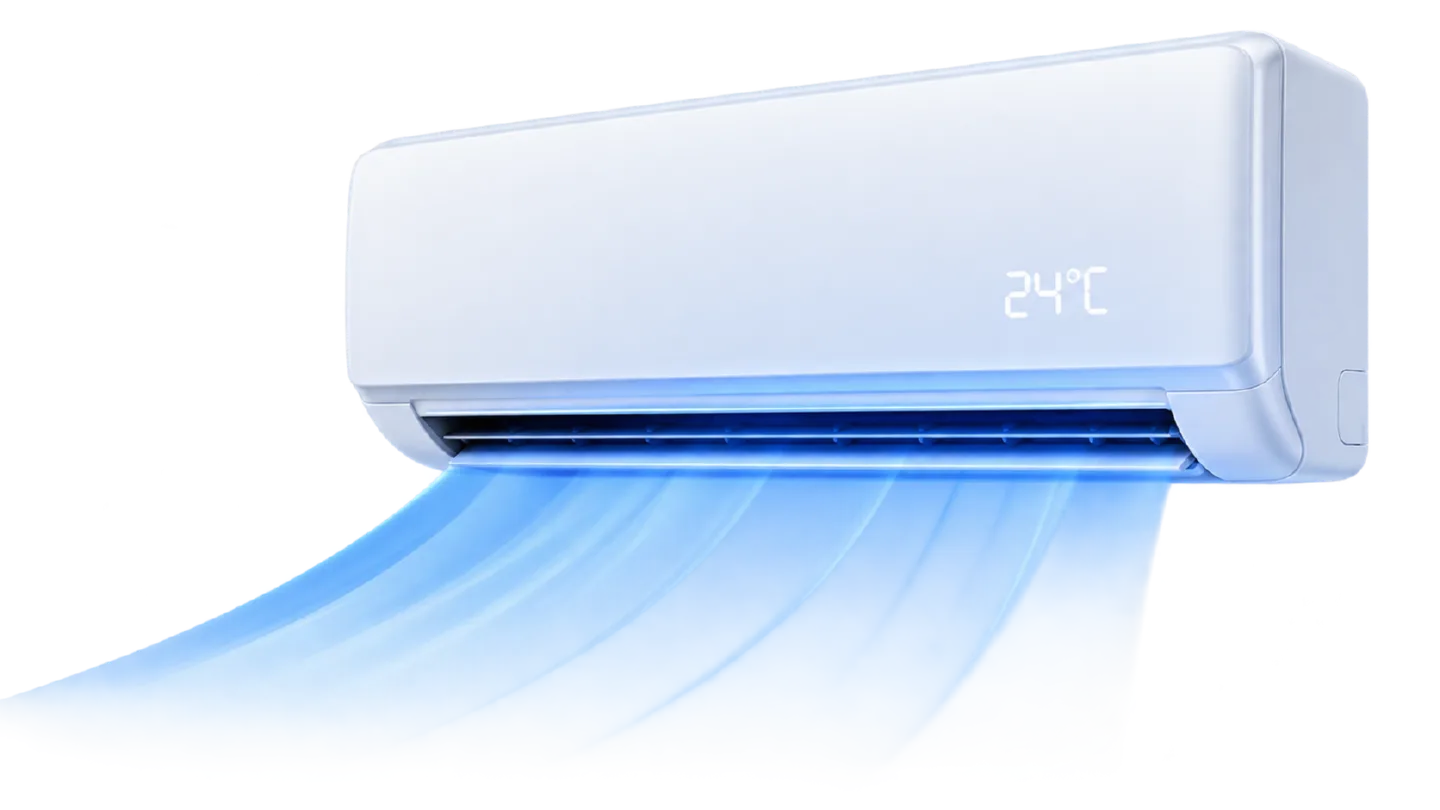
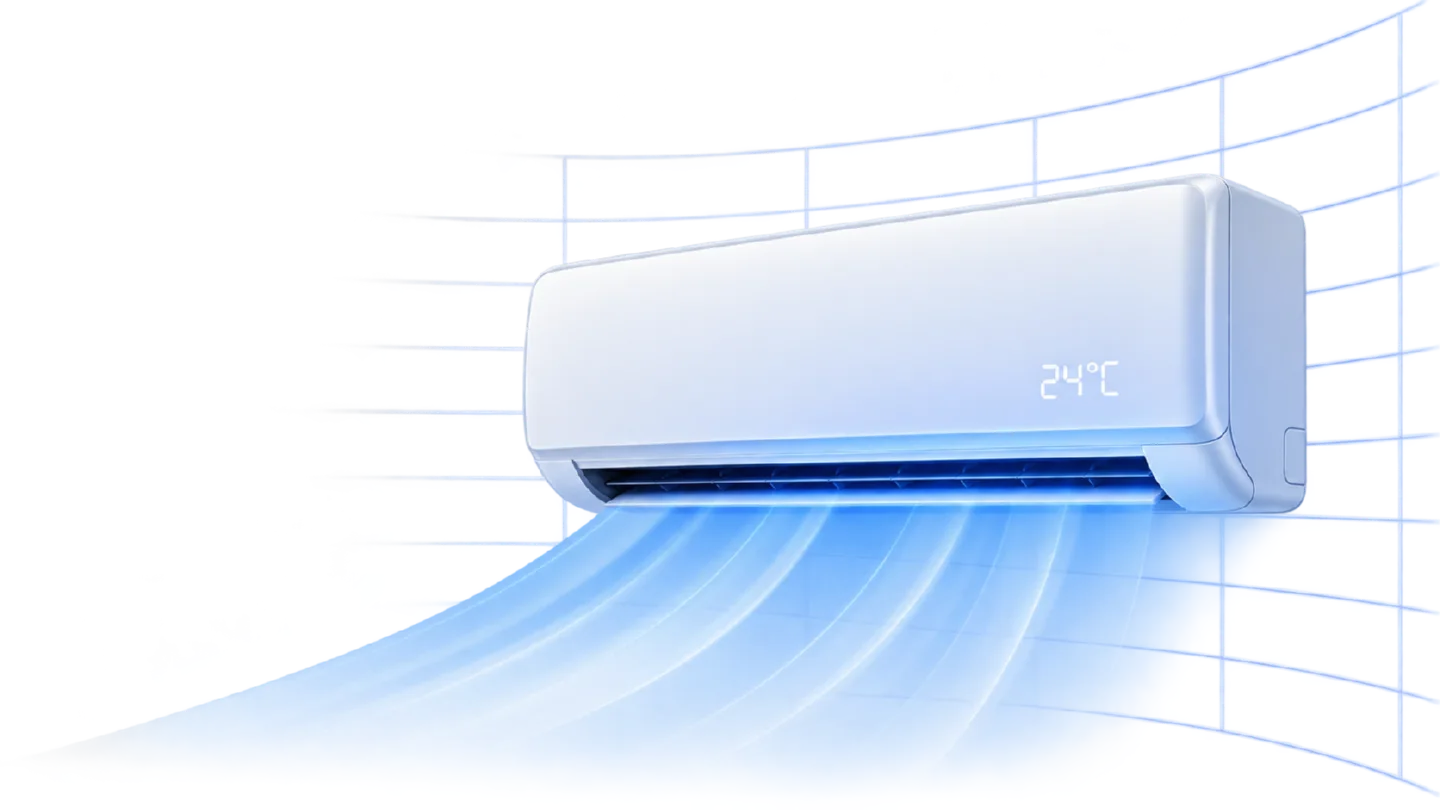
Сделать картинку hero фоновым слоем на узких экранах
До 1024 картинка выходит из потока и ложится под текст:
иначе на планшете hero растягивается на два экрана и до кнопок
нужно доскроллить. На телефоне опускается ещё ниже — под
заголовок, кнопки и полосу преимуществ.

Текст и полоса подняты z-index, картинке снят pointer-events:
как декорация она не должна перехватывать клики.

WebP пересобраны из новой исходной картинки.

diff --git a/app/routes/home/Hero/Hero.module.scss b/app/routes/home/Hero/Hero.module.scss
@@ -1,6 +1,11 @@
 @use "mixins" as *;
 
 .hero {
+  // Система координат для картинки, которая ниже 1024 уходит из потока.
+  // overflow скрывает её выносы за края — иначе появится горизонтальная прокрутка.
+  position: relative;
+  overflow: hidden;
+
   // Мягкий световой градиент от белого к бледно-голубому, как в макете.
   background:
     radial-gradient(70% 55% at 75% 35%, #fff 0%, transparent 65%),
@@ -22,6 +27,8 @@
 }
 
 .content {
+  position: relative;
+  z-index: 1;
   min-width: 0;
 }
 
@@ -73,12 +80,33 @@
 
 // --- изображение ---
 
-// Картинка всегда после текста: на узком экране заголовок и кнопка
-// должны попадать на первый экран, а не уезжать под иллюстрацию.
+// До 1024 картинка выходит из потока и ложится ПОД текст: иначе hero
+// растягивается на два экрана, а до кнопок нужно доскроллить.
 .image {
   width: 100%;
   height: auto;
   min-width: 0;
+
+  @include mq(lg) {
+    position: absolute;
+    z-index: 0;
+    top: 4.5rem;
+    right: -6%;
+    width: 88%;
+    max-width: 38rem;
+
+    // Декорация: не должна перехватывать клики по тексту под ней.
+    pointer-events: none;
+  }
+
+  // На телефоне опускаем ещё ниже — под заголовок, кнопки и полосу преимуществ.
+  @include mq(sm) {
+    top: auto;
+    right: -18%;
+    bottom: -1.5rem;
+    width: 132%;
+    max-width: none;
+  }
 }
 
 // --- полоса преимуществ ---
@@ -86,6 +114,8 @@
 // в макете это подпись к hero, а не самостоятельная секция.
 
 .list {
+  position: relative;
+  z-index: 1;
   display: flex;
   flex-wrap: wrap;
   gap: 1.25rem 2.5rem;
